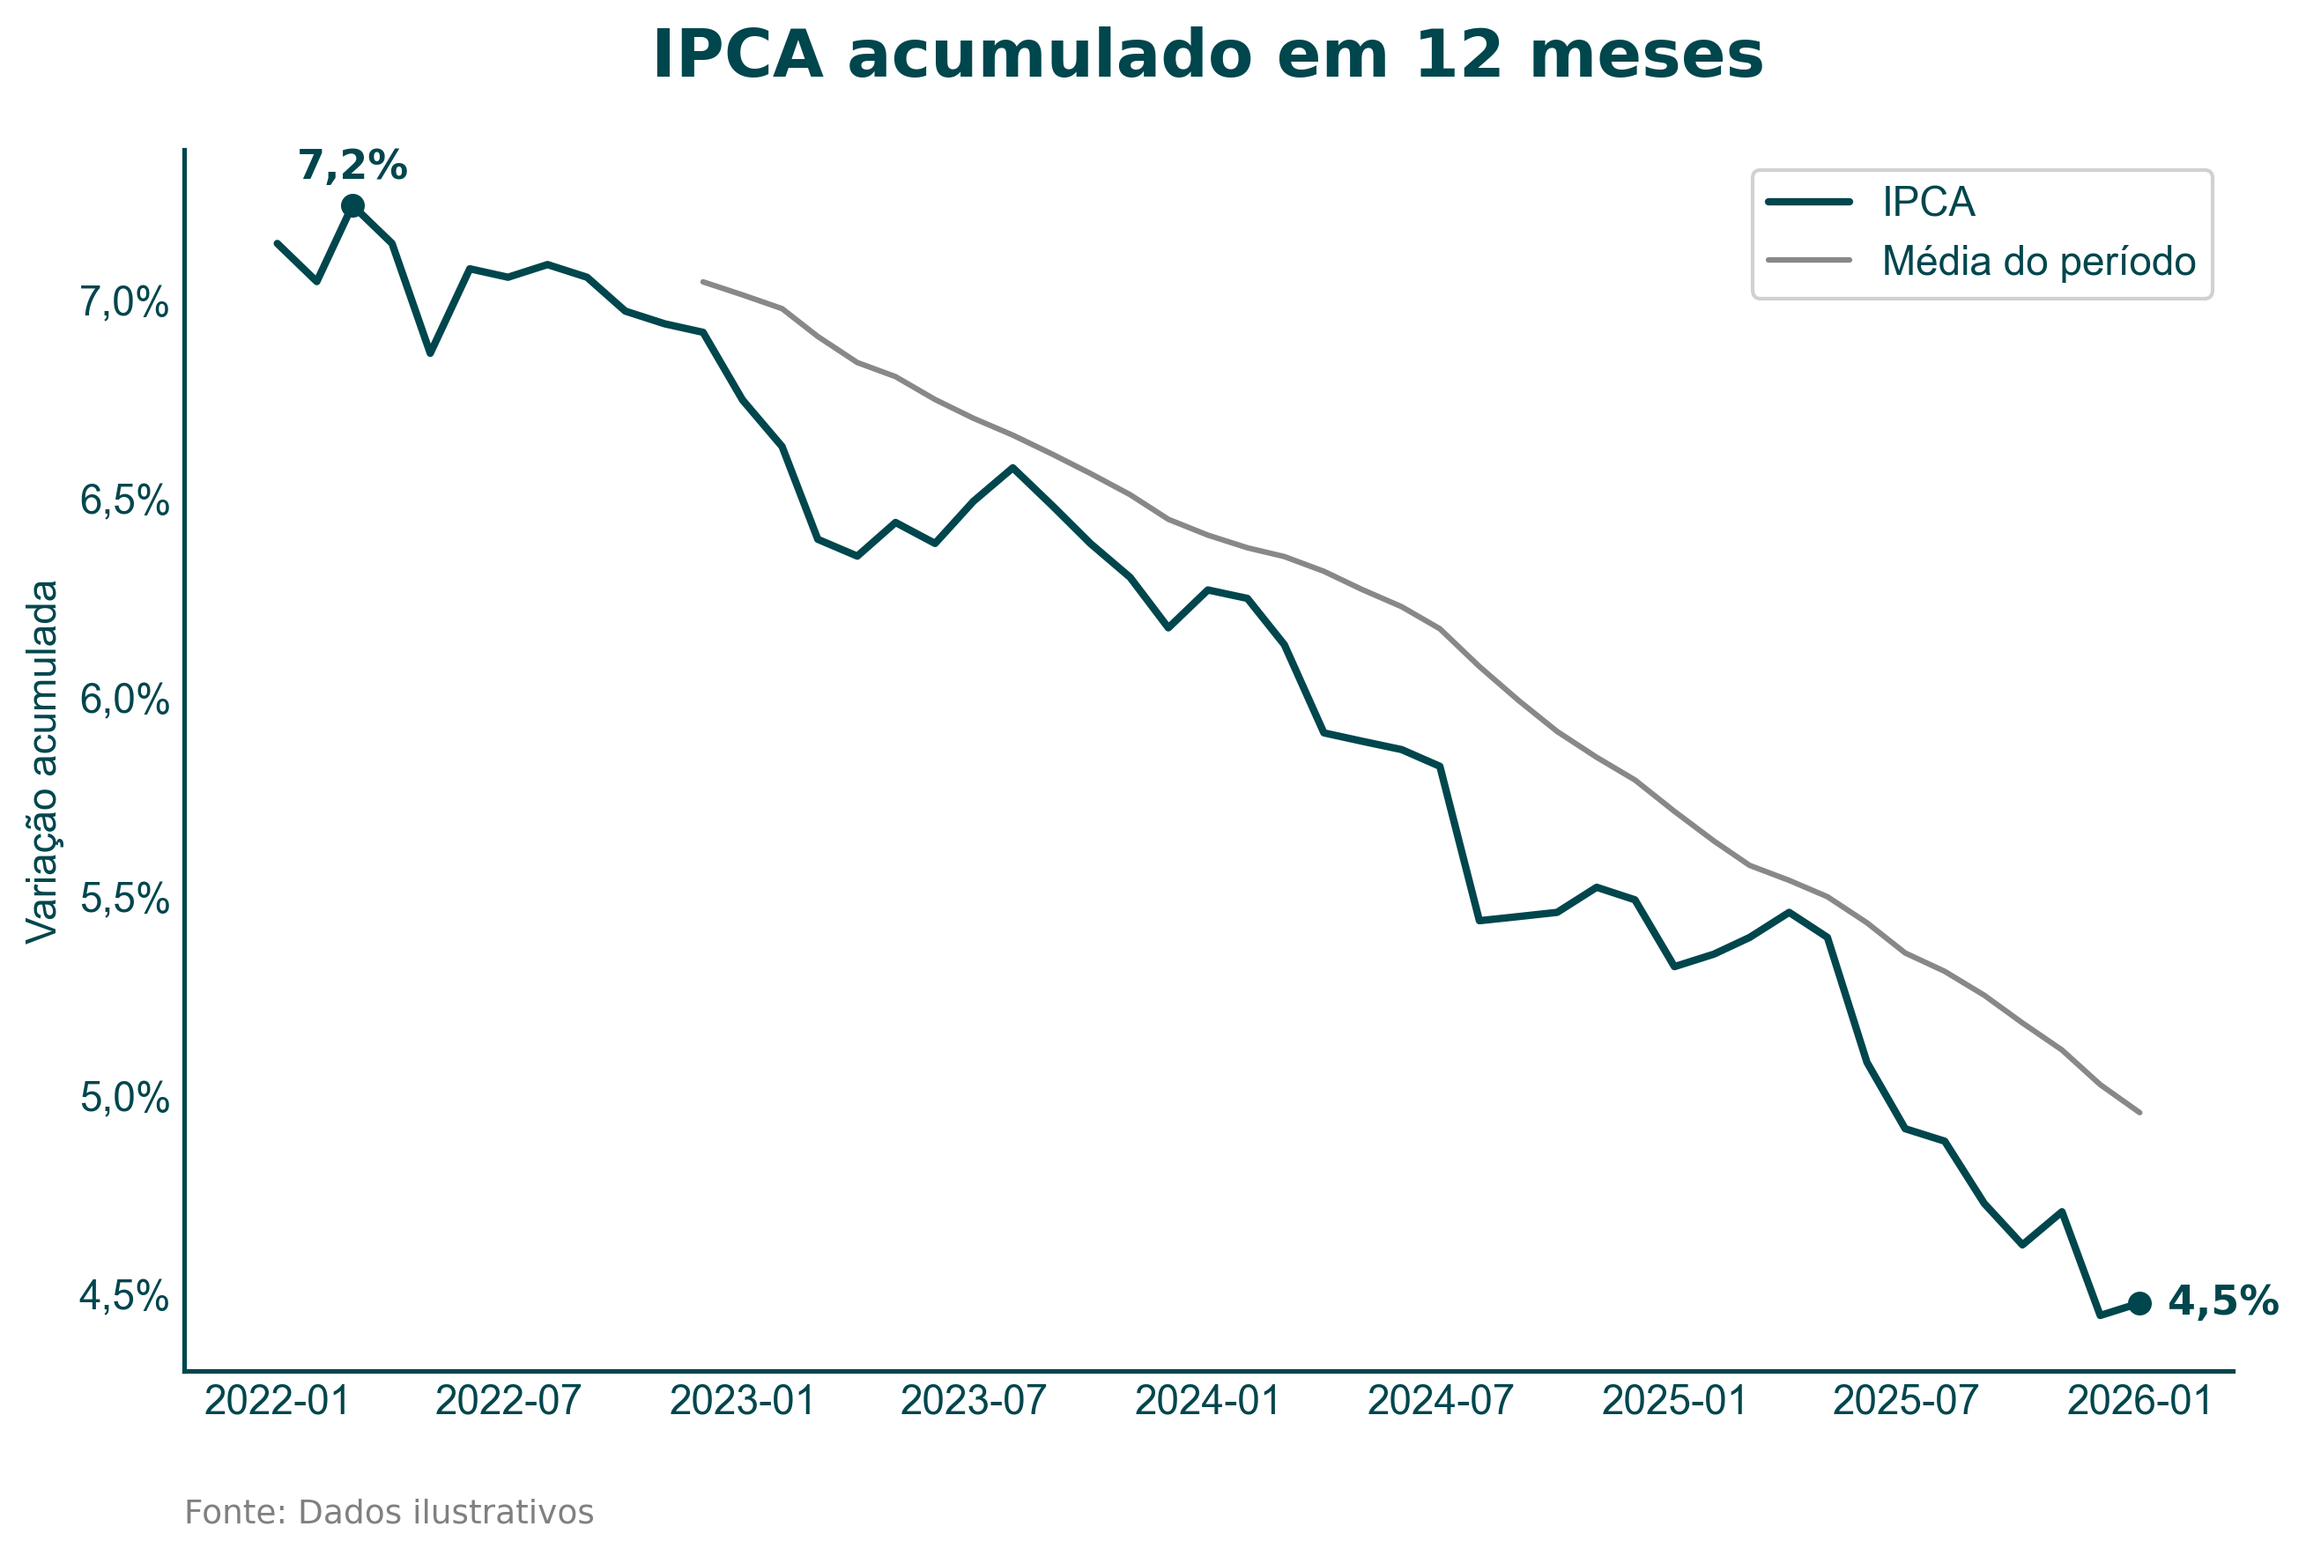
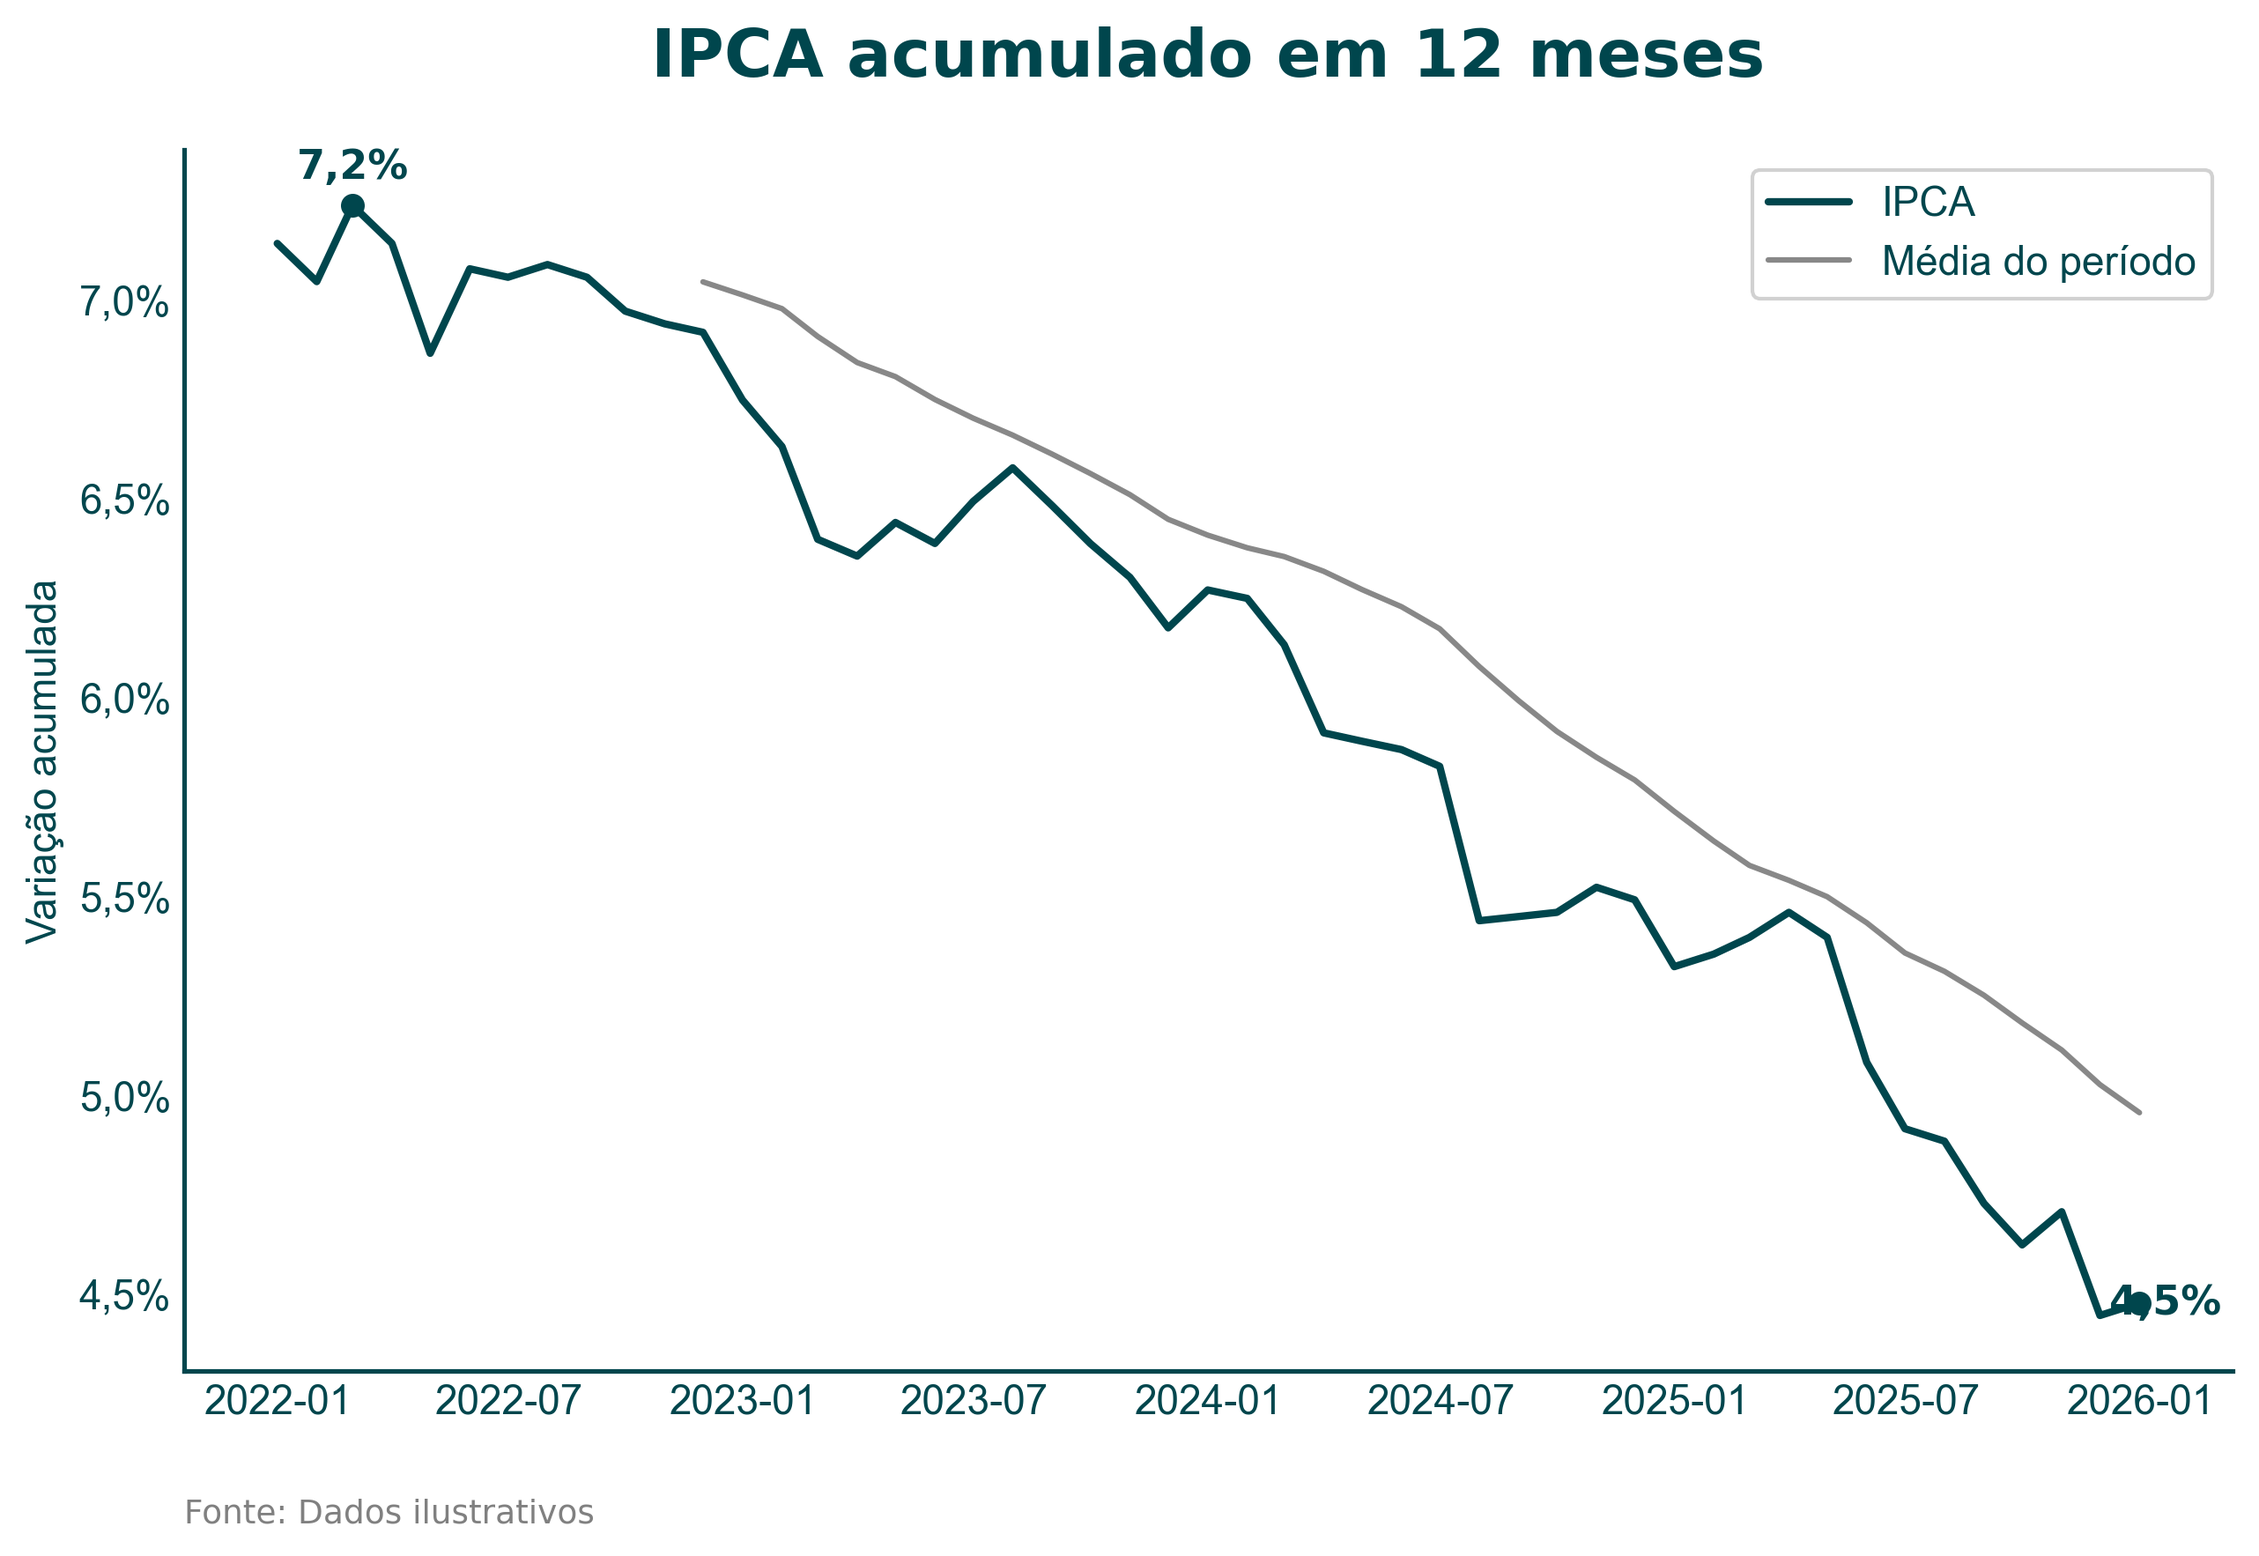
fix(collision): treat leaving the data area as a collision
A highlight label is anchored ha='left' at the last data point, so it extends
past it by construction. Resolution only ran when a label overlapped another
label or a registered obstacle; the axes border is neither, so the label sat
on top of the right spine of every dual-axis chart. edge_margin_factor did
not save it -- that only ranks candidates once a resolution is already under
way, so the solver never woke up.

Two changes, because the first alone was not enough. Overflow now triggers
resolution, and a rescue candidate offers the exact correction that brings the
box back inside. The proactive candidates step in multiples of the label
height, which is the right scale for separating two labels but arbitrary
against a border: a label hanging 30px past the spine was offered 14, 21 and
28px and every one was discarded for still being outside, so the solver ran
and found nothing. That case is now a test.

The rescue lands at the edge margin rather than flush against the border. It
wins on distance, being the smallest move that works, so parking it at the
threshold would put every rescued label in exactly the band the cost function
exists to penalise -- and a glyph's ink reaches past the extent matplotlib
reports for its text, so a box measured as inside still drew over the spine.
Measured on the composition example: 13px of overflow before, 14px of
clearance after.

This is the gap left when 0a1212f dropped add_right_margin, which reserved
[…]

diff --git a/src/chartkit/_internal/collision/_engine.py b/src/chartkit/_internal/collision/_engine.py
@@ -211,6 +211,16 @@ _DIRECTIONS: list[tuple[float, float]] = [
 _SQRT2 = sqrt(2)
 
 
+def _is_within(bbox: Bbox, axes_bbox: Bbox) -> bool:
+    """Whether *bbox* sits entirely inside the data area."""
+    return (
+        bbox.x0 >= axes_bbox.x0
+        and bbox.x1 <= axes_bbox.x1
+        and bbox.y0 >= axes_bbox.y0
+        and bbox.y1 <= axes_bbox.y1
+    )
+
+
 # -- Core resolution --
 
 
@@ -276,7 +286,17 @@ def _resolve_all(
                         obs_bbox = _pad_bbox(obs_bbox, pad)
                     colliding.append(obs_bbox)
 
-            if not colliding:
+            # Leaving the data area is a collision with the chart's own frame:
+            # a label that crosses the spine sits on top of the axis it was
+            # meant to annotate. edge_margin_factor only ranks candidates once
+            # a resolution is already running, so without this the solver never
+            # wakes up for a label that overlaps nothing but the border.
+            # No bbox is appended for it -- reactive candidates snap around an
+            # obstacle, and the border is not one; the proactive candidates are
+            # already filtered to stay inside the axes.
+            out_of_bounds = not _is_within(raw_bbox, axes_bbox)
+
+            if not colliding and not out_of_bounds:
                 continue
 
             result = _find_free_position(
@@ -351,14 +371,21 @@ def _find_free_position(
             _generate_reactive_candidates(label_bbox, obs, clearance, axes_bbox)
         )
 
-    logger.debug("Candidates: %s proactive, %s reactive", len(proactive), len(reactive))
+    bounds = _generate_bounds_candidates(label_bbox, axes_bbox, edge_margin)
+
+    logger.debug(
+        "Candidates: %s proactive, %s reactive, %s bounds",
+        len(proactive),
+        len(reactive),
+        len(bounds),
+    )
 
     best_cost = float("inf")
     best_displacement: tuple[float, float] | None = None
     valid_count = 0
 
-    total = len(proactive) + len(reactive)
-    for dx, dy, _ in chain(proactive, reactive):
+    total = len(proactive) + len(reactive) + len(bounds)
+    for dx, dy, _ in chain(proactive, reactive, bounds):
         shifted_padded = _pad_bbox(_shift_bbox(label_bbox, dx, dy), label_pad)
         if not _position_is_free(
             shifted_padded, label_bboxes, obstacles, obstacle_pad, renderer
@@ -431,6 +458,53 @@ def _generate_proactive_candidates(
             ):
                 distance = sqrt(dx**2 + dy**2)
                 candidates.append((dx, dy, distance))
+
+    return candidates
+
+
+def _generate_bounds_candidates(
+    label_bbox: Bbox,
+    axes_bbox: Bbox,
+    clearance: float,
+) -> list[tuple[float, float, float]]:
+    """Smallest displacement that brings an out-of-bounds label back inside.
+
+    The proactive candidates step in multiples of the label height, which is
+    the right scale for separating two labels but arbitrary against a border:
+    a label hanging 30px past the spine is not helped by offers of 14, 21 and
+    28px, and every one of them is discarded for still being outside. This
+    returns the exact correction instead, per violated edge and combined.
+
+    *clearance* is subtracted beyond the correction so the label lands short of
+    the border rather than flush against it. A glyph's ink can reach past the
+    extent matplotlib reports for its text, so a box measured as exactly inside
+    still draws over the spine. It is the edge margin rather than the label
+    padding: this candidate wins on distance, being the smallest move that
+    works, so landing it at the threshold would park every rescued label in
+    the band the cost function exists to penalise.
+    """
+    dx = 0.0
+    if label_bbox.x1 > axes_bbox.x1:
+        dx = axes_bbox.x1 - label_bbox.x1 - clearance
+    elif label_bbox.x0 < axes_bbox.x0:
+        dx = axes_bbox.x0 - label_bbox.x0 + clearance
+
+    dy = 0.0
+    if label_bbox.y1 > axes_bbox.y1:
+        dy = axes_bbox.y1 - label_bbox.y1 - clearance
+    elif label_bbox.y0 < axes_bbox.y0:
+        dy = axes_bbox.y0 - label_bbox.y0 + clearance
+
+    if dx == 0.0 and dy == 0.0:
+        return []
+
+    candidates: list[tuple[float, float, float]] = []
+    if dx != 0.0:
+        candidates.append((dx, 0.0, abs(dx)))
+    if dy != 0.0:
+        candidates.append((0.0, dy, abs(dy)))
+    if dx != 0.0 and dy != 0.0:
+        candidates.append((dx, dy, sqrt(dx**2 + dy**2)))
 
     return candidates
 

diff --git a/tests/collision/test_collision_engine.py b/tests/collision/test_collision_engine.py
@@ -332,3 +332,93 @@ class TestBestCostSelection:
             pos = lbl.get_position()
             assert abs(pos[1] - 30) < 20 or abs(pos[1] - 29) < 20
         plt.close(fig)
+
+
+class TestOutOfBoundsTrigger:
+    """A label that leaves the data area must be pulled back inside.
+
+    Before this, resolution only ran when a label overlapped another label or
+    a registered obstacle. The axes border is neither, so a label anchored past
+    the last data point stayed on top of the spine -- edge_margin_factor only
+    ranks candidates once a resolution is already under way.
+    """
+
+    @staticmethod
+    def _axes_and_renderer(fig, ax):
+        fig.draw_without_rendering()
+        renderer = fig.canvas.get_renderer()
+        return ax.get_window_extent(renderer), renderer
+
+    def test_label_past_the_right_edge_is_moved_back(self) -> None:
+        fig, ax = plt.subplots()
+        ax.plot([0, 1, 2, 3, 4], [10, 20, 15, 25, 30])
+
+        # ha='left' at the last point pushes the text out past the spine,
+        # which is how highlight labels are anchored.
+        label = ax.text(4, 30, "  30,0%", ha="left", va="center")
+        register_moveable(ax, label)
+
+        axes_bbox, renderer = self._axes_and_renderer(fig, ax)
+        before = label.get_window_extent(renderer)
+        assert before.x1 > axes_bbox.x1, "fixture must start out of bounds"
+
+        resolve_collisions(ax)
+
+        fig.draw_without_rendering()
+        after = label.get_window_extent(renderer)
+        assert after.x1 <= axes_bbox.x1
+        plt.close(fig)
+
+    def test_rescued_label_lands_clear_of_the_border(self) -> None:
+        """Landing flush against the spine is not enough.
+
+        The rescue candidate wins on distance, being the smallest move that
+        works, so without an explicit margin it parks the label exactly on the
+        border -- and a glyph's ink reaches past the extent matplotlib reports,
+        so the text still draws over the spine.
+        """
+        fig, ax = plt.subplots()
+        ax.plot([0, 1, 2, 3, 4], [10, 20, 15, 25, 30])
+
+        label = ax.text(4, 30, "  30,0%", ha="left", va="center")
+        register_moveable(ax, label)
+
+        axes_bbox, renderer = self._axes_and_renderer(fig, ax)
+        resolve_collisions(ax)
+
+        fig.draw_without_rendering()
+        after = label.get_window_extent(renderer)
+        assert axes_bbox.x1 - after.x1 > 1.0
+        plt.close(fig)
+
+    def test_label_already_inside_is_left_alone(self) -> None:
+        """No collision and no overflow means no movement."""
+        fig, ax = plt.subplots()
+        ax.plot([0, 1, 2, 3, 4], [10, 20, 15, 25, 30])
+
+        label = ax.text(2, 15, "x", ha="center", va="center")
+        register_moveable(ax, label)
+
+        original = label.get_position()
+        resolve_collisions(ax)
+
+        assert label.get_position() == original
+        plt.close(fig)
+
+    def test_overflow_at_the_top_also_triggers(self) -> None:
+        """The check is on the whole box, not only the horizontal axis."""
+        fig, ax = plt.subplots()
+        ax.plot([0, 1, 2], [10, 20, 30])
+        ax.set_ylim(10, 30)
+
+        label = ax.text(1, 30, "topo", ha="center", va="bottom")
+        register_moveable(ax, label)
+
+        axes_bbox, renderer = self._axes_and_renderer(fig, ax)
+        assert label.get_window_extent(renderer).y1 > axes_bbox.y1
+
+        resolve_collisions(ax)
+
+        fig.draw_without_rendering()
+        assert label.get_window_extent(renderer).y1 <= axes_bbox.y1
+        plt.close(fig)
